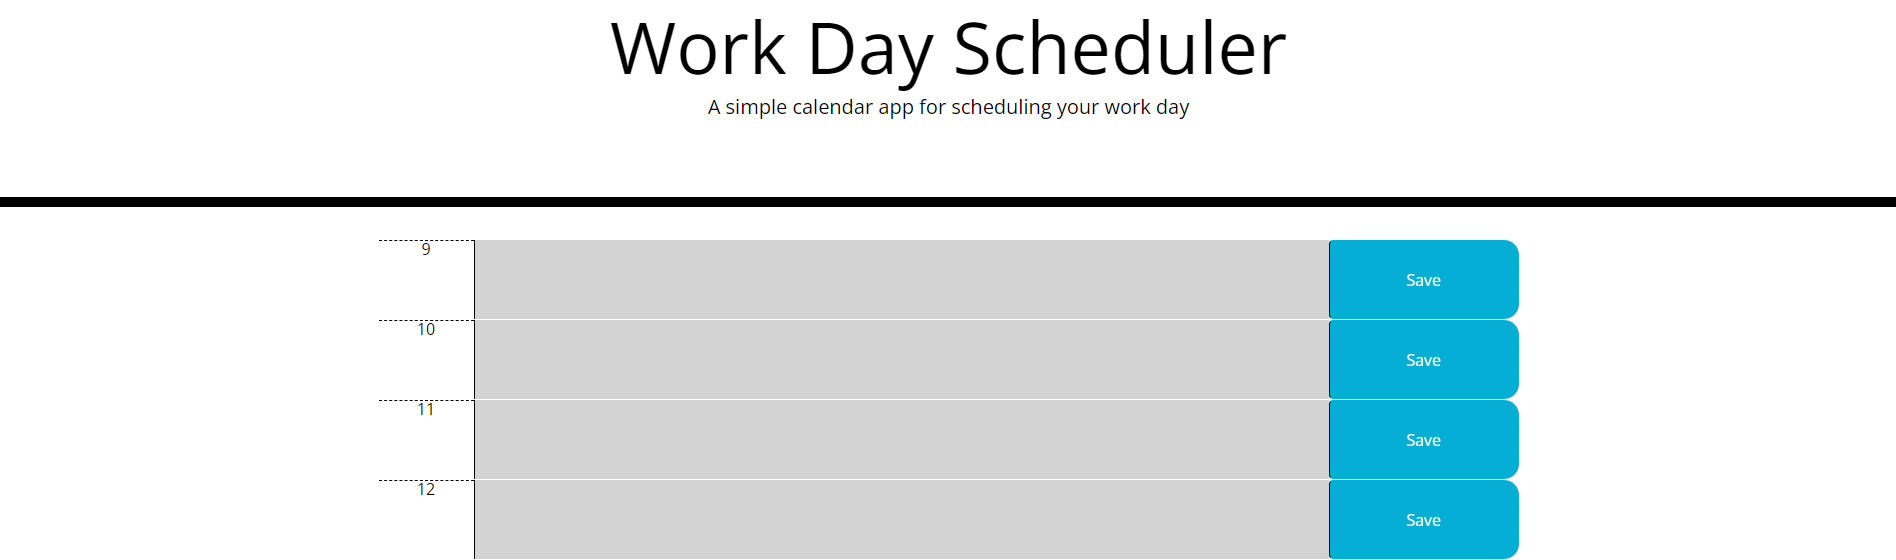
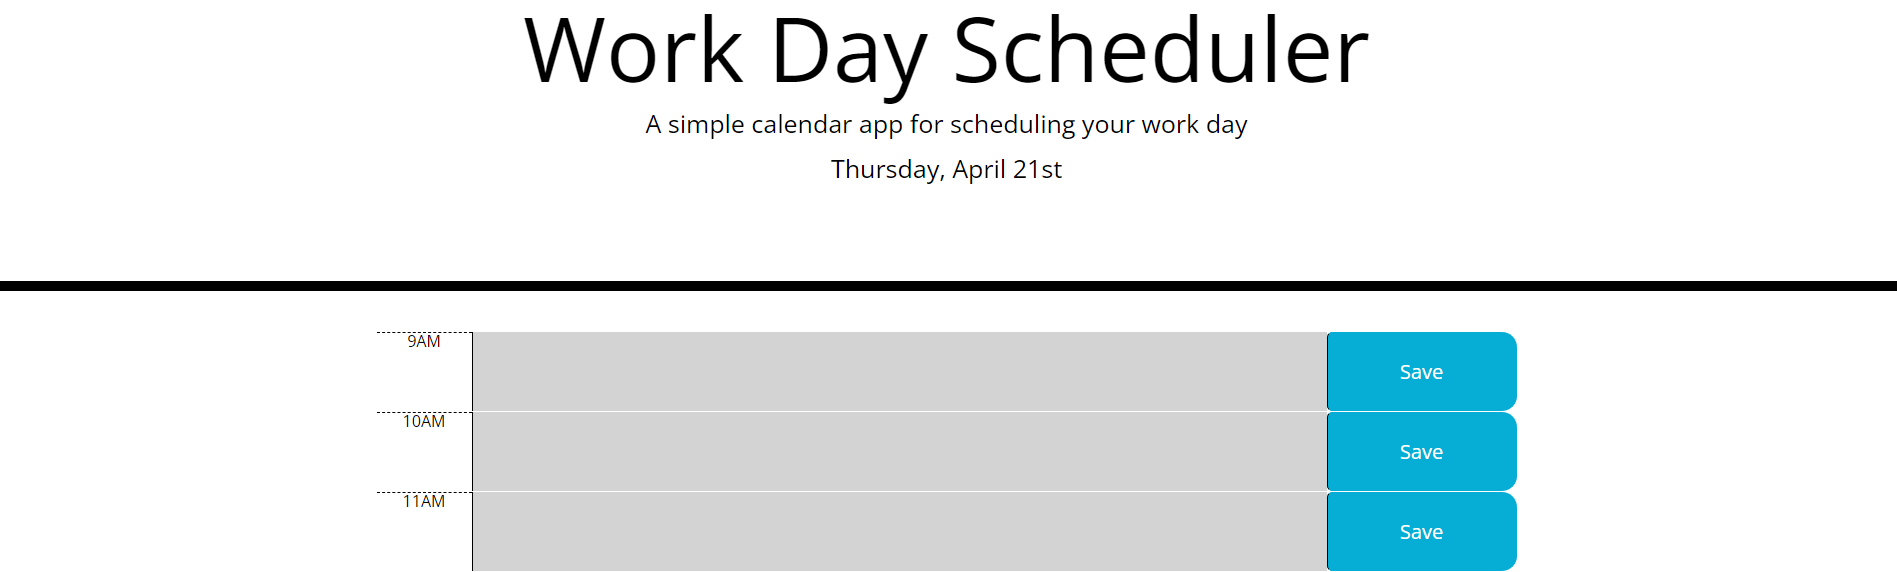
Updated Site Preview Picture, removed console.logs, Updated timeSlot texts, fixed saving issue

diff --git a/assets/js/script.js b/assets/js/script.js
@@ -1,18 +1,11 @@
-// variables
-var btnEl = document.querySelectorAll(".btn")
-// Check each button
-// console.log(btnEl)
-
-// Array of times
-var timeSlots = ["9", "10", "11", "12", "13", "14", "15", "16", "17"];
-// Check timeSlots
-// console.log(timeSlots)
+// Variables
+var timeSlots = ["9AM", "10AM", "11AM", "12PM", "1PM", "2PM", "3PM", "4PM", "5PM"];
 
 // Function for making each time block
-function makeTimeblocks(hour, existingTodo = ""){
+function makeTimeblocks(hour, existingTodo = "") {
     // Get the current time
     var currentHour = new Date().getHours();
-
+    
     // Check if current time vs time block
     var presentPastOrFuture = "future";
     if (currentHour > hour) presentPastOrFuture = "past";
@@ -28,35 +21,36 @@ function makeTimeblocks(hour, existingTodo = ""){
     $(`
     <div class="row time-block">
         <div class="hour col-1">${hourName}</div>
-        <textarea name="" id="${hourName}" cols="30" rows="3" class="description col-9 ${presentPastOrFuture}">${existingTodo || ""}</textarea>
+        <textarea name="" id="${hourName}" cols="30" rows="3" class="description col-9 ${presentPastOrFuture}">${
+    existingTodo || ""
+    }</textarea>
         <button class="btn saveBtn col-2">Save</button>
     </div>`)
     );
+
+
 }
 
-
 // Create time block for each hour
-for(var i = 0; i < 9 ; i++){
+for (var i = 0; i < 9; i++) {
     makeTimeblocks(i);
 }
 
 
+// Variables
+var btnEl = document.querySelectorAll(".saveBtn");
+
 // Cycle thru save buttons
-for (var i = 0; btnEl.length; i++) {
-    btnEl[i].addEventListener("click", functionForSaving)
-}     
-        // Verify each click works
-        // alert("clicked me")
+for (var i = 0; i < btnEl.length; i++) {
+    btnEl[i].addEventListener("click", functionForSaving);
+}
 
 
-function functionForSaving (event) {
+// Function For Saving Key Value Pairs
+function functionForSaving(event) {
     // Checking able to get text area content
-    // console.log("target", event.target.parentNode.children[1].value)
-    var todoValue = event.target.parentNode.children[1].value
-    var todoKey = event.target.parentNode.children[1].id
-
-    // check values
-    console.log("key values" + todoKey, todoValue)
+    var todoValue = event.target.parentNode.children[1].value;
+    var todoKey = event.target.parentNode.children[1].id;
 
     // Store to localStorage
     localStorage.setItem(todoKey, todoValue);
